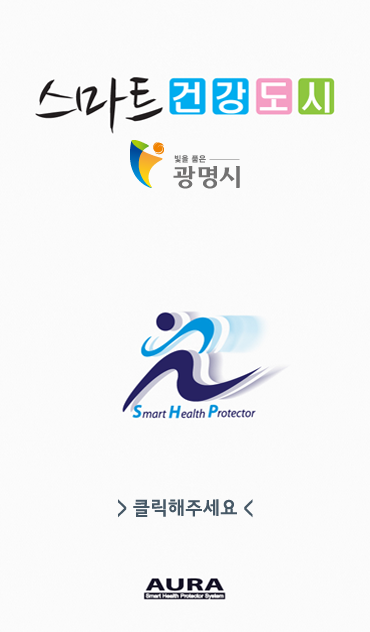
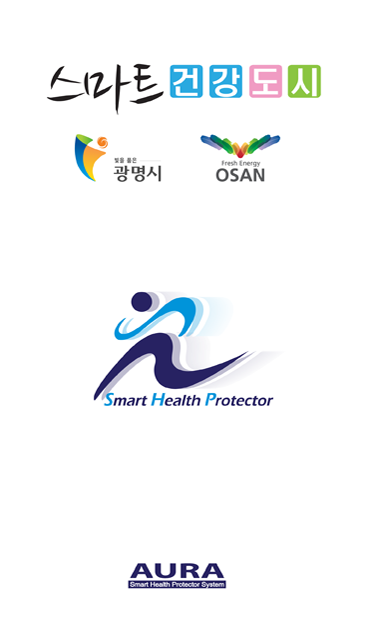
웹페이지 오산시 반영

diff --git a/healthcare/src/main/webapp/WEB-INF/views/front-views/popup.html b/healthcare/src/main/webapp/WEB-INF/views/front-views/popup.html
@@ -1,0 +1,11 @@
+<html>
+<head>
+<style>
+
+</style>
+
+</head>
+<body >
+<img src="popup.png" alt="Smiley face" height="400" width="400">
+</body>
+</html>
